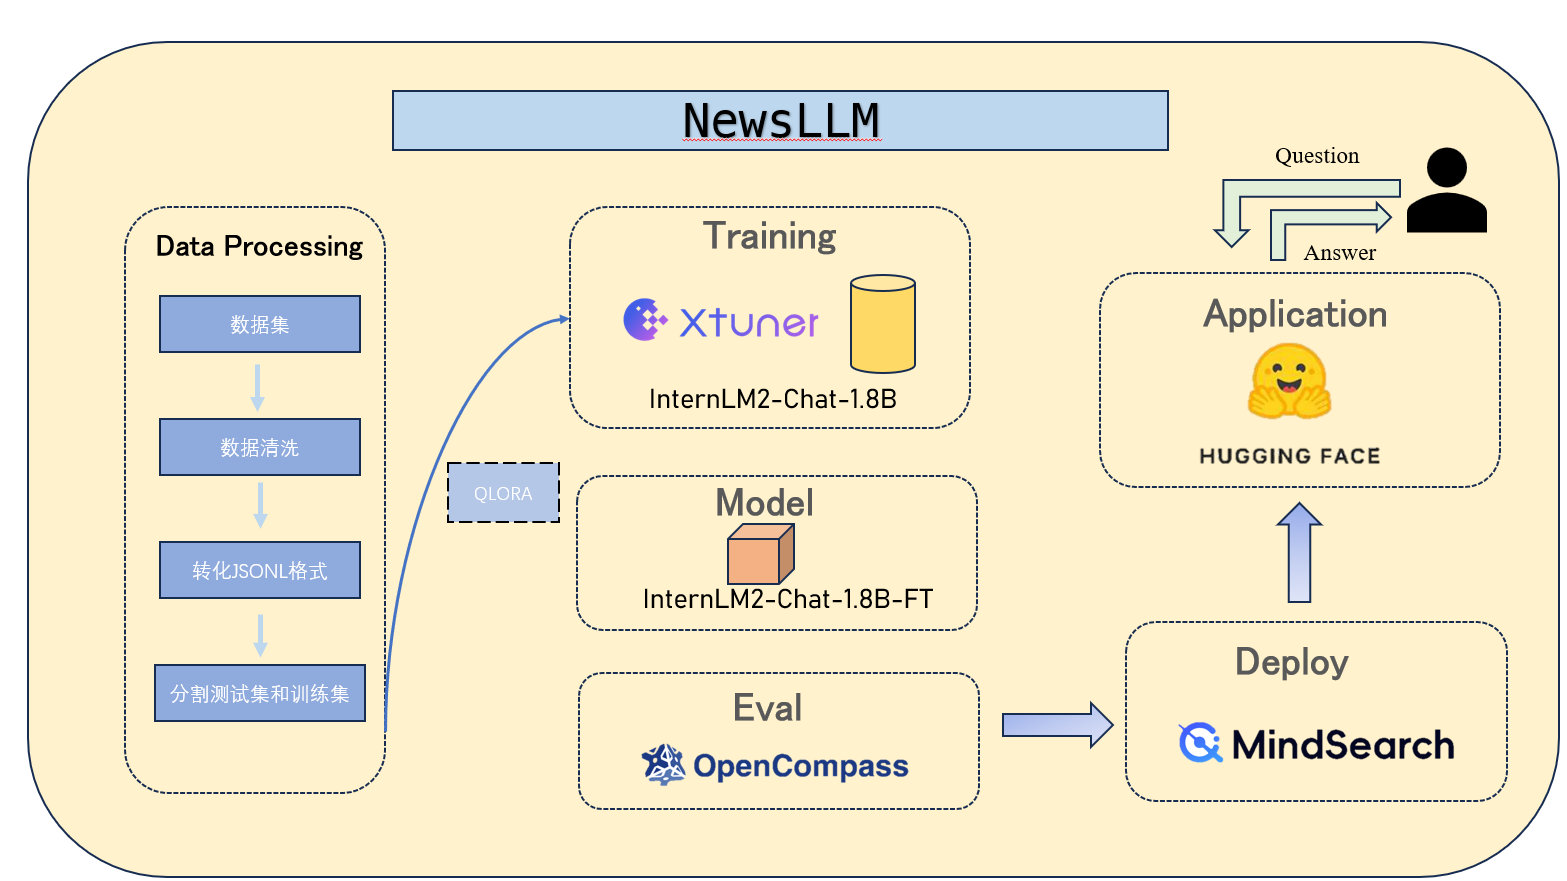
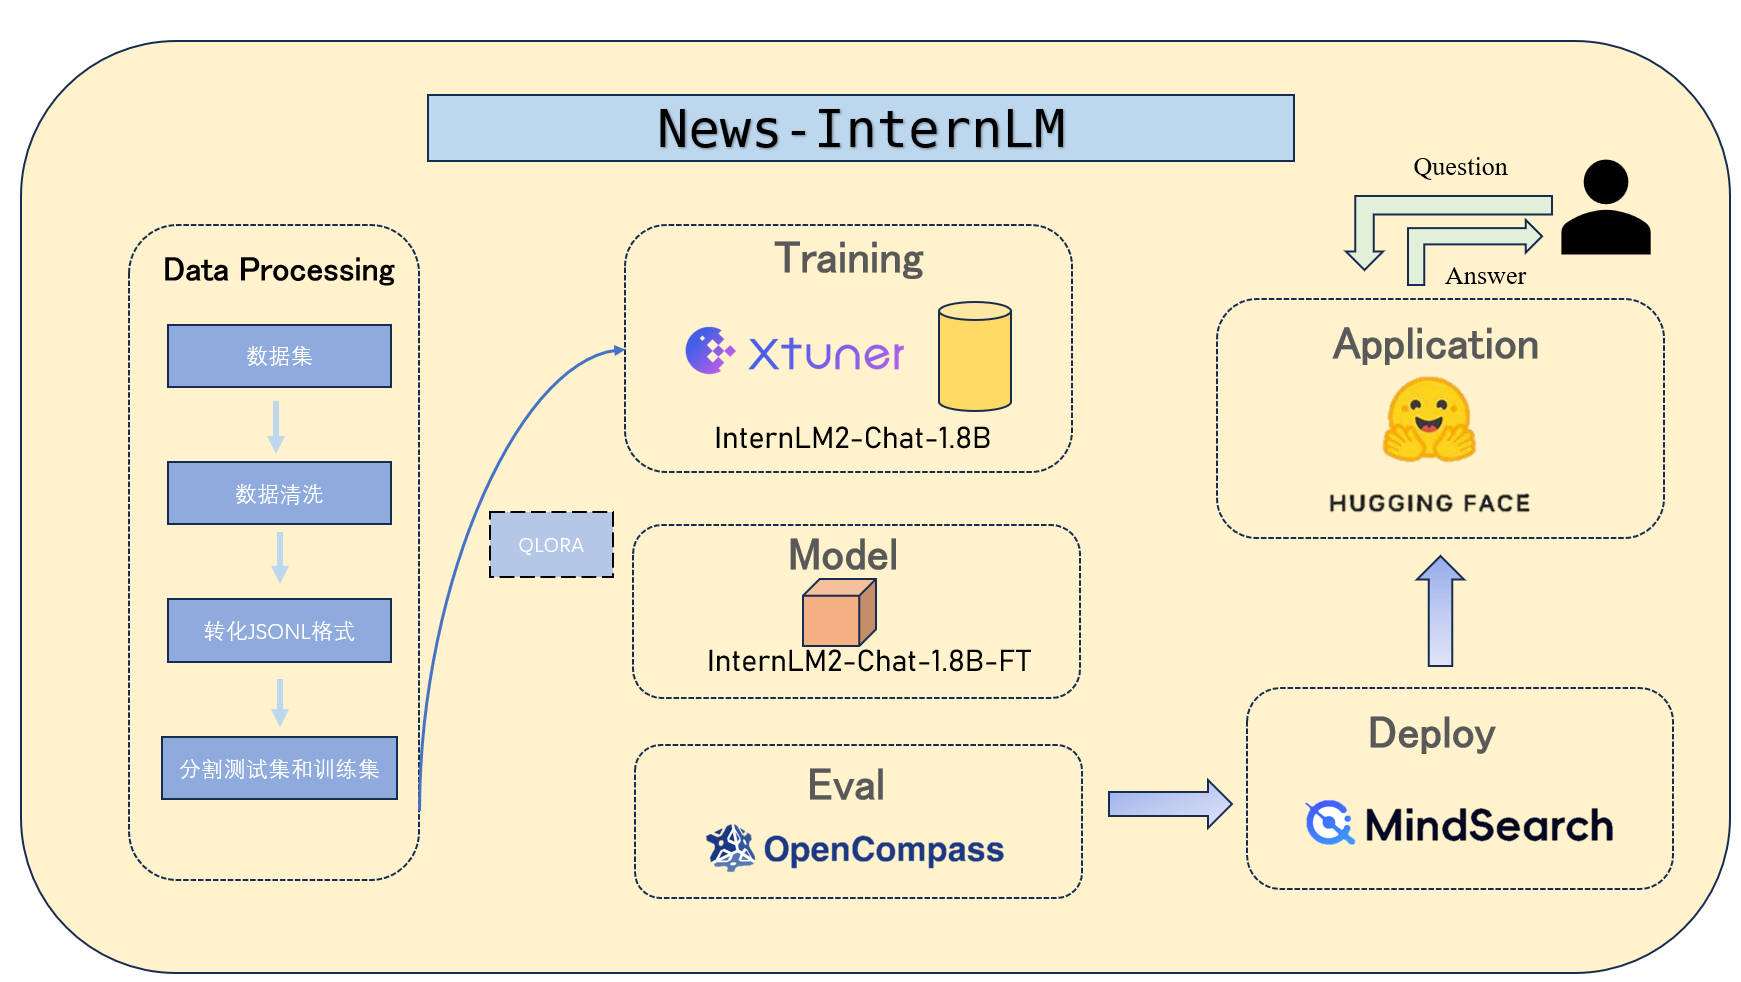
first add

diff --git a/README.md b/README.md
@@ -1,3 +1,3 @@
-# NewsLLM
+# News-internLM
 使用LLM实现个人新闻小助手
 ![alt text](NewsLLM架构图.png)
